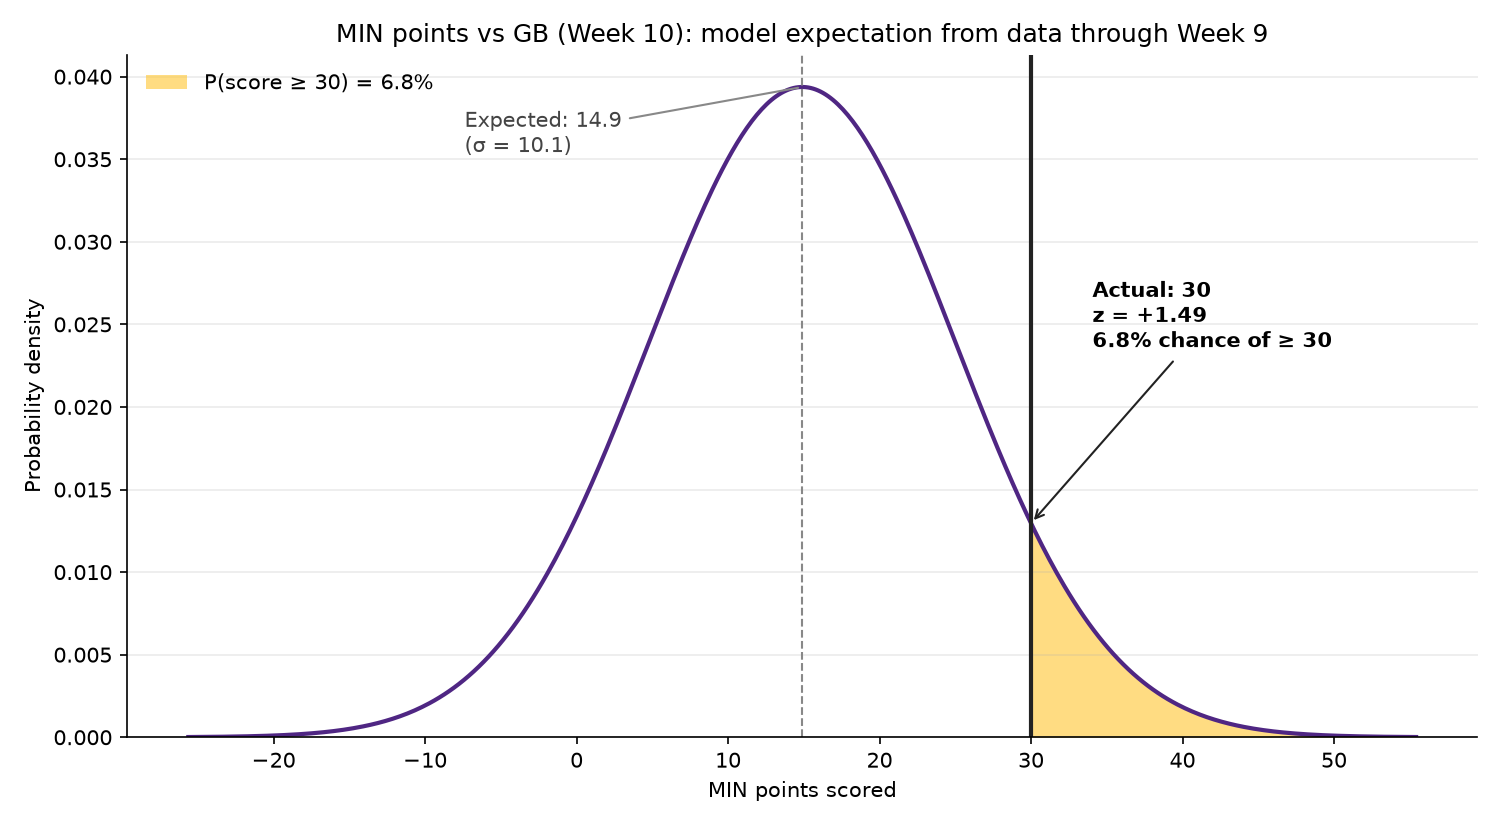
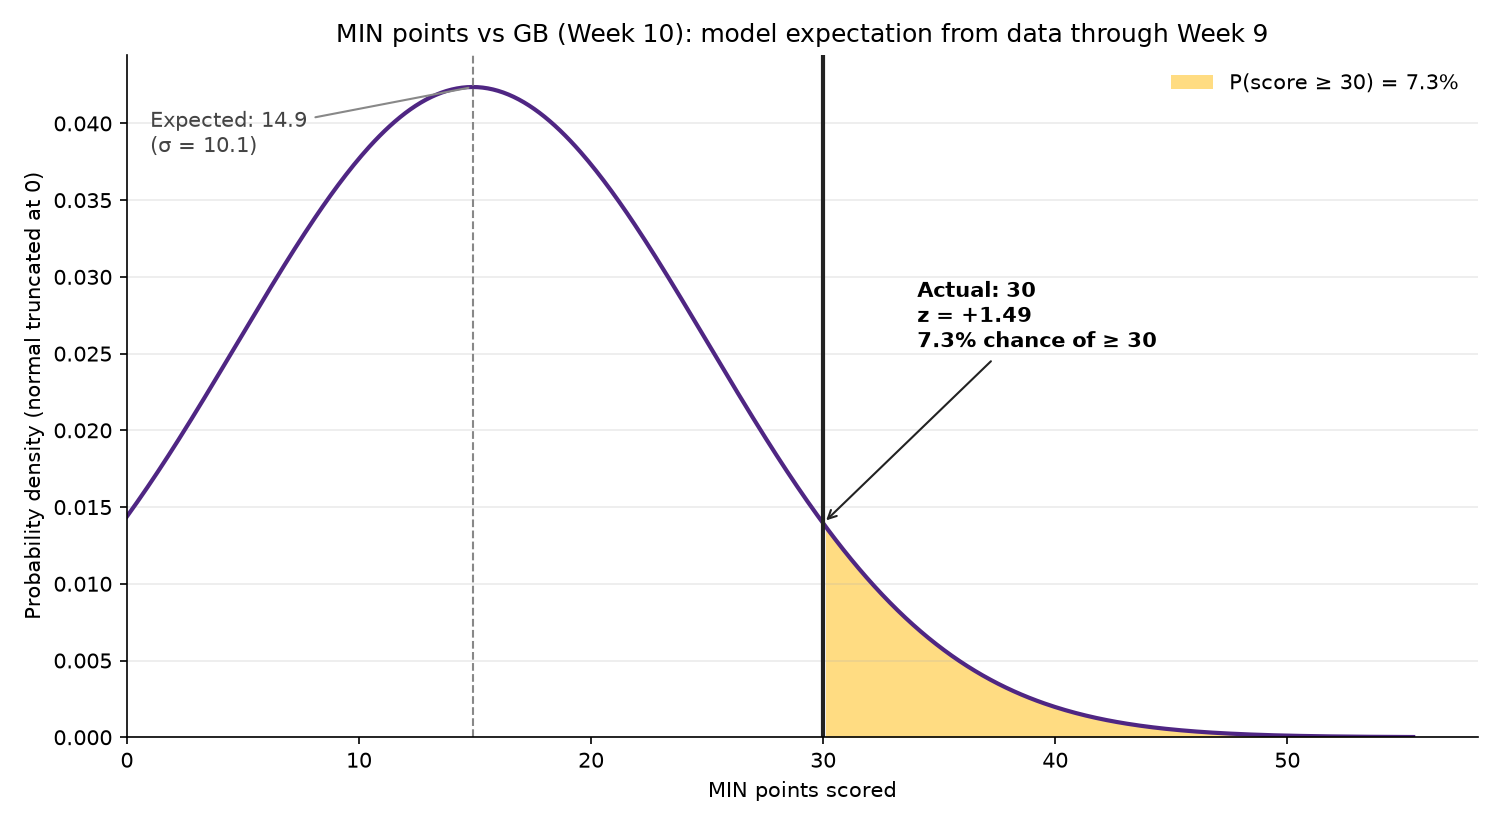
Truncate MIN score distribution at 0
Negative scores are impossible, so drop the normal's mass below 0 and
renormalize. P(MIN >= 30) moves from 6.8% to 7.3%.

diff --git a/src/ad_hoc/kirk_vikings.py b/src/ad_hoc/kirk_vikings.py
@@ -47,13 +47,24 @@ def norm_pdf(x, mu, sd):
 def norm_cdf(x, mu, sd):
     return 0.5 * (1 + math.erf((x - mu) / (sd * math.sqrt(2))))
 
+# Truncate the normal at 0 (negative scores are impossible) and renormalize so the
+# remaining density still integrates to 1.
+p_nonneg = 1 - norm_cdf(0, mean, std)                              # share of the normal at or above 0
+
+def trunc_pdf(x, mu, sd):
+    return np.where(np.asarray(x) >= 0, norm_pdf(x, mu, sd) / p_nonneg, 0.0)
+
+def trunc_cdf(x, mu, sd):
+    return 0.0 if x < 0 else (norm_cdf(x, mu, sd) - norm_cdf(0, mu, sd)) / p_nonneg
+
 z = (ACTUAL_MIN_SCORED - mean) / std
-p_at_least = 1 - norm_cdf(ACTUAL_MIN_SCORED, mean, std)           # P(score >= actual)
+p_at_least = 1 - trunc_cdf(ACTUAL_MIN_SCORED, mean, std)          # P(score >= actual | score >= 0)
 p_two_sided = 2 * min(p_at_least, 1 - p_at_least)                  # as or more extreme, either direction
+print(f'Share of normal below 0 (removed): {1 - p_nonneg:.1%}')
 print(f'z = {z:.2f} | P(MIN >= {ACTUAL_MIN_SCORED}) = {p_at_least:.1%} | two-sided = {p_two_sided:.1%}')
 
-x = np.linspace(mean - 4 * std, mean + 4 * std, 500)
-y = norm_pdf(x, mean, std)
+x = np.linspace(0, mean + 4 * std, 500)
+y = trunc_pdf(x, mean, std)
 
 fig, ax = plt.subplots(figsize=(10, 5.5))
 ax.plot(x, y, color='#4F2683', lw=2)  # Vikings purple
@@ -64,21 +75,22 @@ ax.axvline(mean, color='#888888', ls='--', lw=1)
 ax.axvline(ACTUAL_MIN_SCORED, color='#222222', lw=2)
 
 ymax = y.max()
-ax.annotate(f'Expected: {mean:.1f}\n(σ = {std:.1f})', xy=(mean, ymax), xytext=(mean - 2.2 * std, ymax * 0.9),
+ax.annotate(f'Expected: {mean:.1f}\n(σ = {std:.1f})', xy=(mean, ymax), xytext=(1, ymax * 0.9),
             fontsize=10, color='#444444', arrowprops=dict(arrowstyle='-', color='#888888'))
 ax.annotate(f'Actual: {ACTUAL_MIN_SCORED}\nz = {z:+.2f}\n{p_at_least:.1%} chance of ≥ {ACTUAL_MIN_SCORED}',
-            xy=(ACTUAL_MIN_SCORED, norm_pdf(ACTUAL_MIN_SCORED, mean, std)),
+            xy=(ACTUAL_MIN_SCORED, trunc_pdf(ACTUAL_MIN_SCORED, mean, std)),
             xytext=(ACTUAL_MIN_SCORED + 0.4 * std, ymax * 0.6), fontsize=10, weight='bold',
             arrowprops=dict(arrowstyle='->', color='#222222'))
 
 ax.set_title(f'MIN points vs GB (Week {OBS_WEEK + 1}): model expectation from data through Week {OBS_WEEK}', fontsize=12)
 ax.set_xlabel('MIN points scored')
-ax.set_ylabel('Probability density')
+ax.set_ylabel('Probability density (normal truncated at 0)')
 ax.set_ylim(bottom=0)
+ax.set_xlim(left=0)
 for s in ('top', 'right'):
     ax.spines[s].set_visible(False)
 ax.grid(axis='y', alpha=0.25)
-ax.legend(frameon=False, loc='upper left')
+ax.legend(frameon=False, loc='upper right')
 fig.tight_layout()
 
 out_path = DATA_DIR + 'predictions/min_week10_score_distribution.png'
